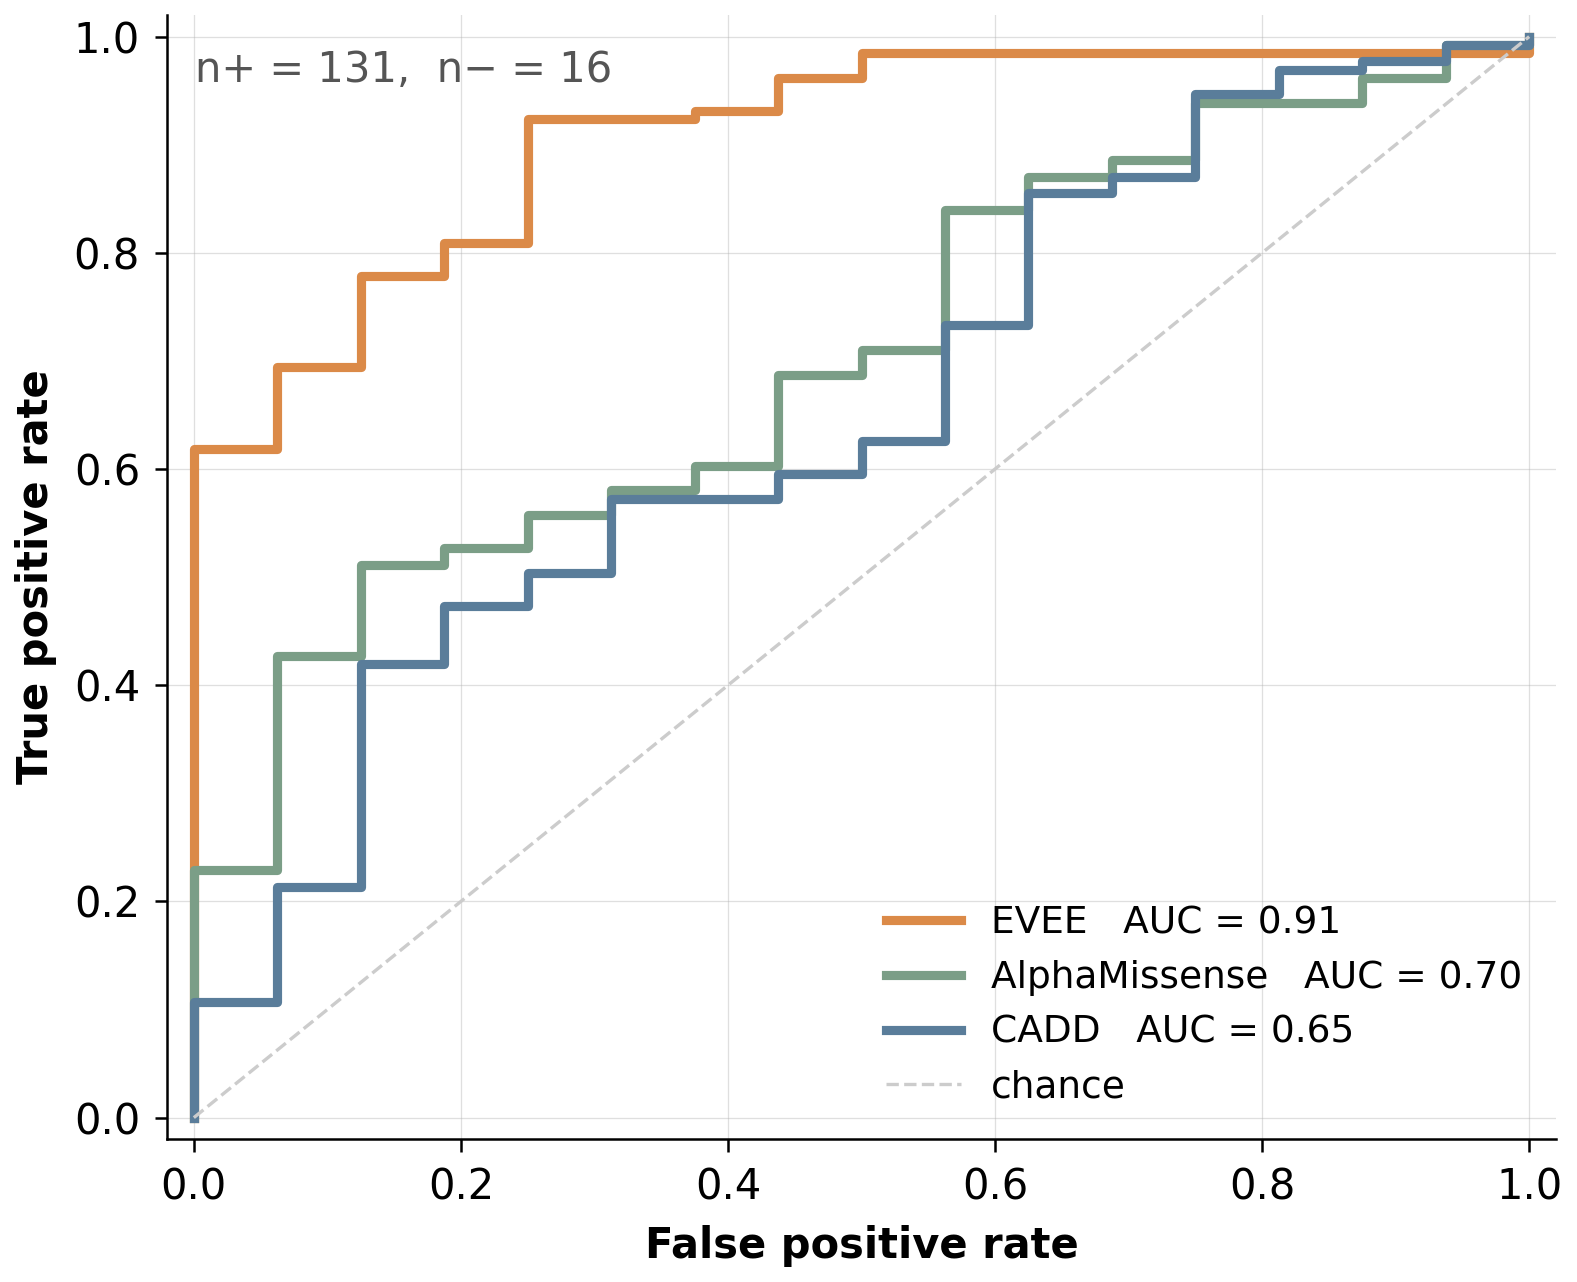
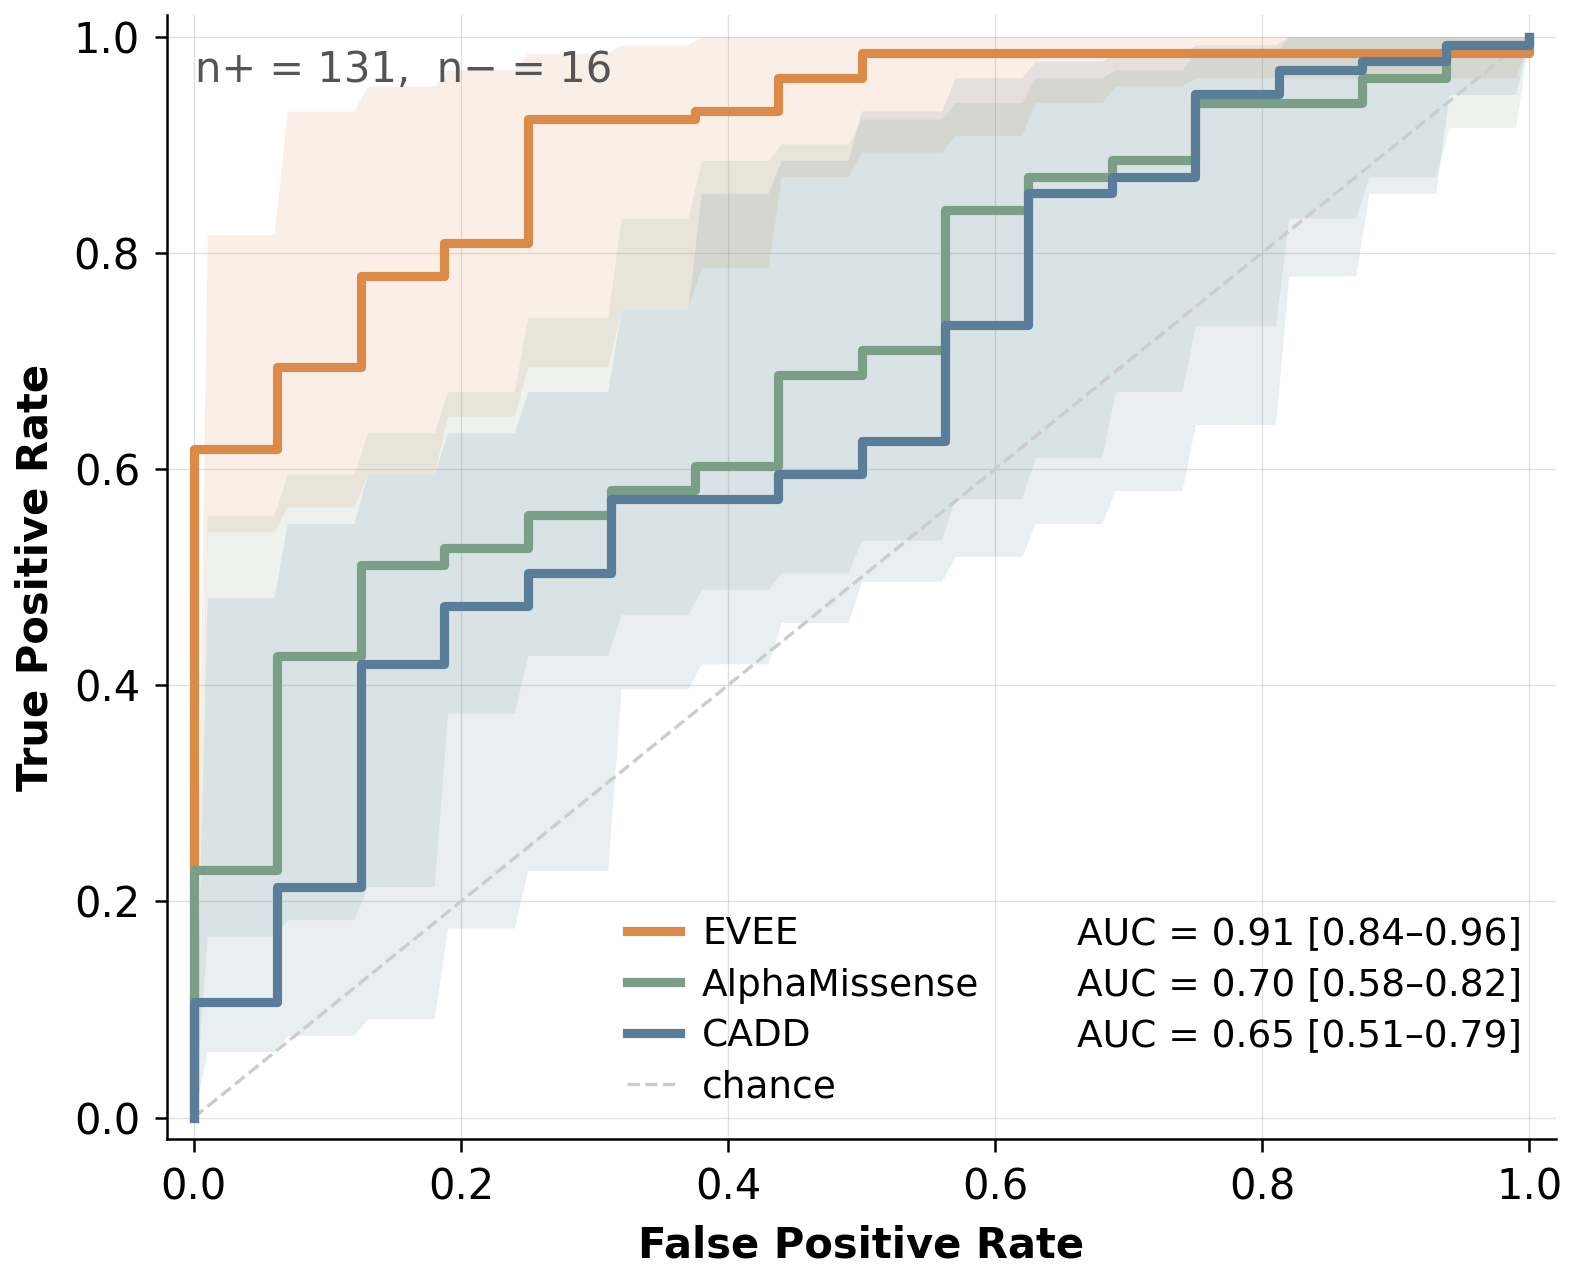
Fig 5a: add bootstrap 95% CIs (AUC + ROC bands), aligned two-column legend
- Stratified bootstrap (2000 resamples, seed 0): 95% AUC CIs + 95% ROC
  bands for all three methods.
- Two-column legend aligns AUC [CI] values in their own column.
- Title-case axis labels; tighter legend column spacing.

diff --git a/scripts/figure5/fig5a_ldlr_roc.py b/scripts/figure5/fig5a_ldlr_roc.py
@@ -15,8 +15,12 @@ from pathlib import Path
 import matplotlib
 matplotlib.use("Agg")
 import matplotlib.pyplot as plt
+import numpy as np
 import pandas as pd
 from sklearn.metrics import roc_auc_score, roc_curve
+
+N_BOOT = 2000
+BOOT_SEED = 0
 
 ROOT = Path(__file__).resolve().parents[2]
 sys.path.insert(0, str(ROOT))
@@ -50,6 +54,33 @@ def load_data() -> pd.DataFrame:
     return df
 
 
+def _bootstrap_roc(y, s, n_boot=N_BOOT, seed=BOOT_SEED):
+    """Stratified bootstrap (resample positives and negatives independently).
+
+    Returns the AUC 95% CI plus a 95% TPR band interpolated on a common FPR grid.
+    """
+    y = np.asarray(y)
+    s = np.asarray(s)
+    pos = np.where(y == 1)[0]
+    neg = np.where(y == 0)[0]
+    rng = np.random.RandomState(seed)
+    grid = np.linspace(0.0, 1.0, 101)
+    aucs = np.empty(n_boot)
+    tprs = np.empty((n_boot, grid.size))
+    for b in range(n_boot):
+        idx = np.concatenate([rng.choice(pos, pos.size, replace=True),
+                              rng.choice(neg, neg.size, replace=True)])
+        yb, sb = y[idx], s[idx]
+        aucs[b] = roc_auc_score(yb, sb)
+        fpr, tpr, _ = roc_curve(yb, sb)
+        tprs[b] = np.interp(grid, fpr, tpr)
+        tprs[b, 0] = 0.0
+    auc_lo, auc_hi = np.percentile(aucs, [2.5, 97.5])
+    tpr_lo = np.percentile(tprs, 2.5, axis=0)
+    tpr_hi = np.percentile(tprs, 97.5, axis=0)
+    return (float(auc_lo), float(auc_hi)), grid, tpr_lo, tpr_hi
+
+
 def _roc_panel(ax, df, label_col):
     n_pos = int(df[label_col].sum())
     n_neg = len(df) - n_pos
@@ -61,24 +92,44 @@ def _roc_panel(ax, df, label_col):
             continue
         fpr, tpr, _ = roc_curve(sub[label_col], sub[col])
         auc = roc_auc_score(sub[label_col], sub[col])
-        drawn.append({"label": label, "color": color,
-                      "auc": float(auc), "fpr": fpr, "tpr": tpr})
+        (auc_lo, auc_hi), grid, tpr_lo, tpr_hi = _bootstrap_roc(
+            sub[label_col].values, sub[col].values)
+        drawn.append({"label": label, "color": color, "auc": float(auc),
+                      "auc_lo": auc_lo, "auc_hi": auc_hi, "fpr": fpr, "tpr": tpr,
+                      "grid": grid, "tpr_lo": tpr_lo, "tpr_hi": tpr_hi})
     drawn.sort(key=lambda d: -d["auc"])
+    # 95% bootstrap ROC bands (all methods), drawn beneath the curves
     for d in drawn:
-        ax.plot(d["fpr"], d["tpr"], color=d["color"], lw=2.2,
-                label=f"{d['label']}   AUC = {d['auc']:.2f}")
-    ax.plot([0, 1], [0, 1], color="#cccccc", lw=0.8, ls="--", label="chance")
+        ax.fill_between(d["grid"], d["tpr_lo"], d["tpr_hi"],
+                        color=d["color"], alpha=0.13, lw=0, zorder=1)
+    for d in drawn:
+        ax.plot(d["fpr"], d["tpr"], color=d["color"], lw=2.2, zorder=3)
+    ax.plot([0, 1], [0, 1], color="#cccccc", lw=0.8, ls="--", zorder=2)
     ax.set_xlim(-0.02, 1.02)
     ax.set_ylim(-0.02, 1.02)
-    ax.set_xlabel("False positive rate", fontsize=FONT_SIZE_LABEL + 2,
+    ax.set_xlabel("False Positive Rate", fontsize=FONT_SIZE_LABEL + 2,
                   fontweight="semibold")
-    ax.set_ylabel("True positive rate", fontsize=FONT_SIZE_LABEL + 2,
+    ax.set_ylabel("True Positive Rate", fontsize=FONT_SIZE_LABEL + 2,
                   fontweight="semibold")
     ax.text(0.02, 0.97, f"n+ = {n_pos},  n− = {n_neg}",
             transform=ax.transAxes, ha="left", va="top",
             fontsize=FONT_SIZE_TICK + 2, color="#555555")
     ax.tick_params(labelsize=FONT_SIZE_TICK + 2)
-    ax.legend(fontsize=FONT_SIZE_LEGEND + 2, frameon=False, loc="lower right")
+
+    # Two-column legend: method names (with colored handle) on the left,
+    # AUC [95% CI] aligned in their own column on the right.
+    blank = plt.Line2D([0], [0], color="none")
+    left_handles = [plt.Line2D([0], [0], color=d["color"], lw=2.2) for d in drawn]
+    left_labels = [d["label"] for d in drawn]
+    left_handles.append(plt.Line2D([0], [0], color="#cccccc", lw=0.8, ls="--"))
+    left_labels.append("chance")
+    right_handles = [blank] * (len(drawn) + 1)
+    right_labels = [f"AUC = {d['auc']:.2f} [{d['auc_lo']:.2f}–{d['auc_hi']:.2f}]"
+                    for d in drawn] + [""]
+    ax.legend(left_handles + right_handles, left_labels + right_labels,
+              ncol=2, fontsize=FONT_SIZE_LEGEND + 2, frameon=False,
+              loc="lower right", columnspacing=0.6, handletextpad=0.6,
+              handlelength=1.4, labelspacing=0.4)
     ax.grid(True, lw=0.3, alpha=0.4)
     ax.set_axisbelow(True)
     for spine in ("top", "right"):
